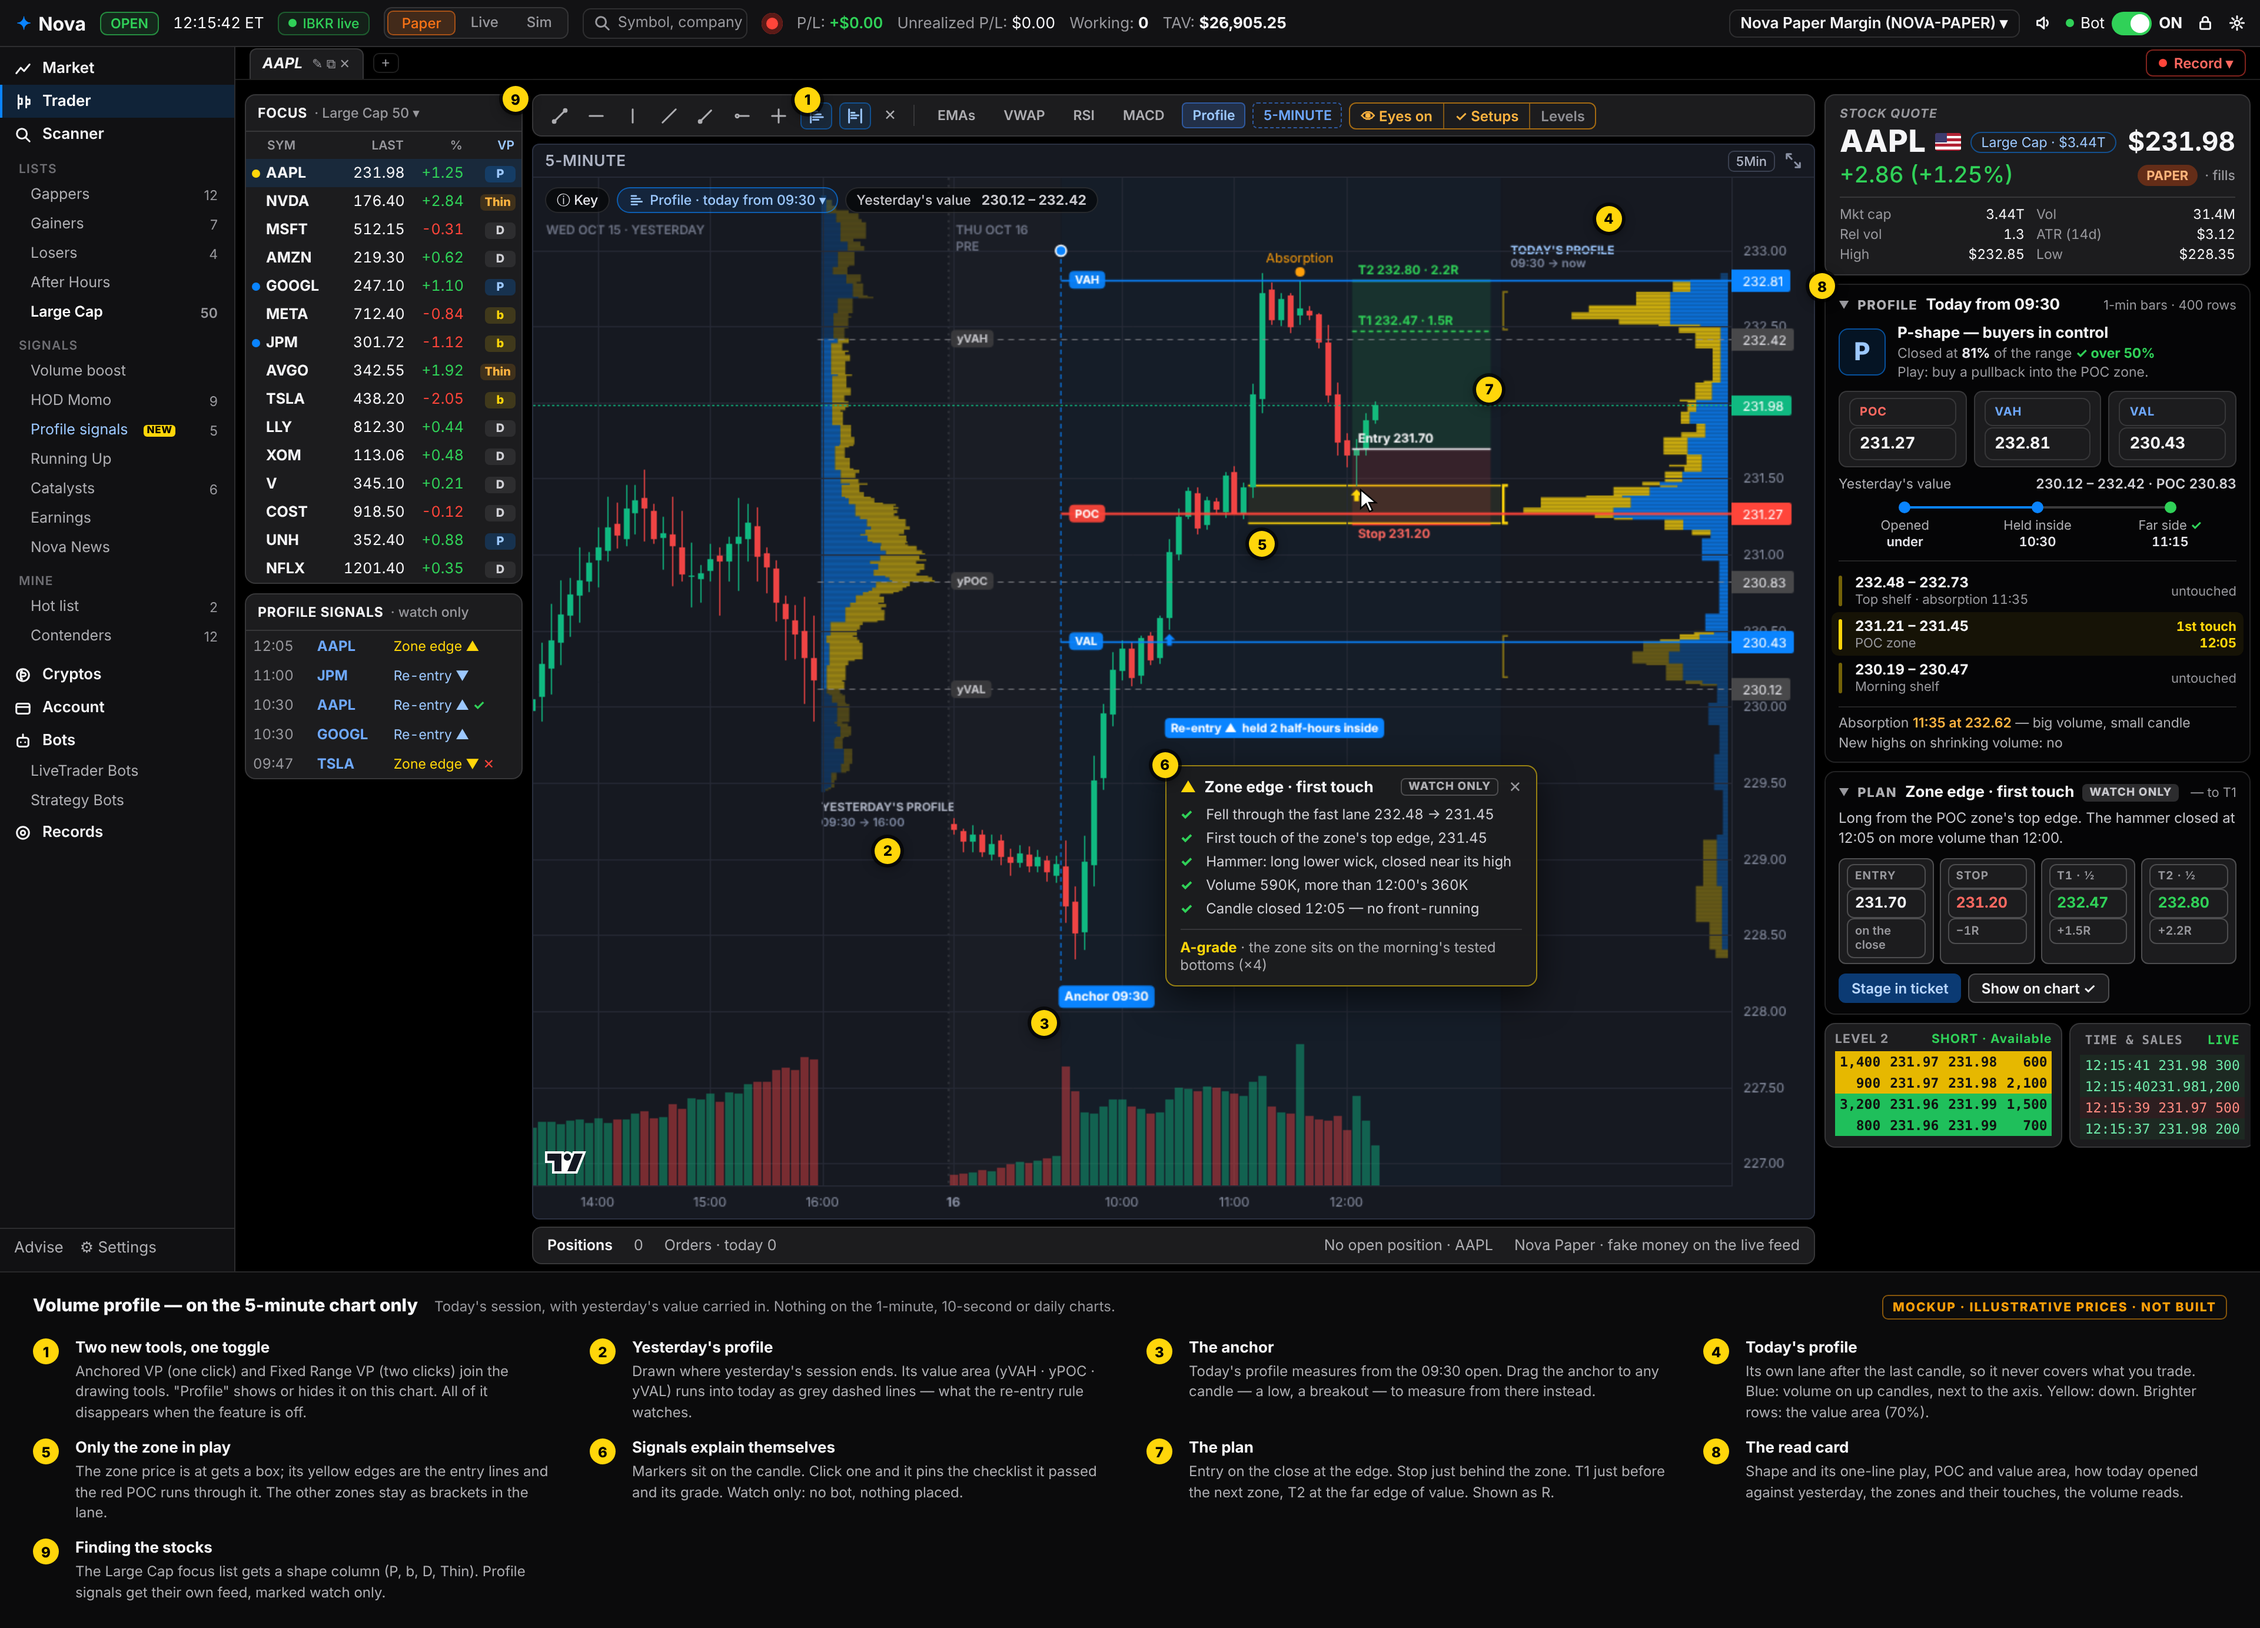
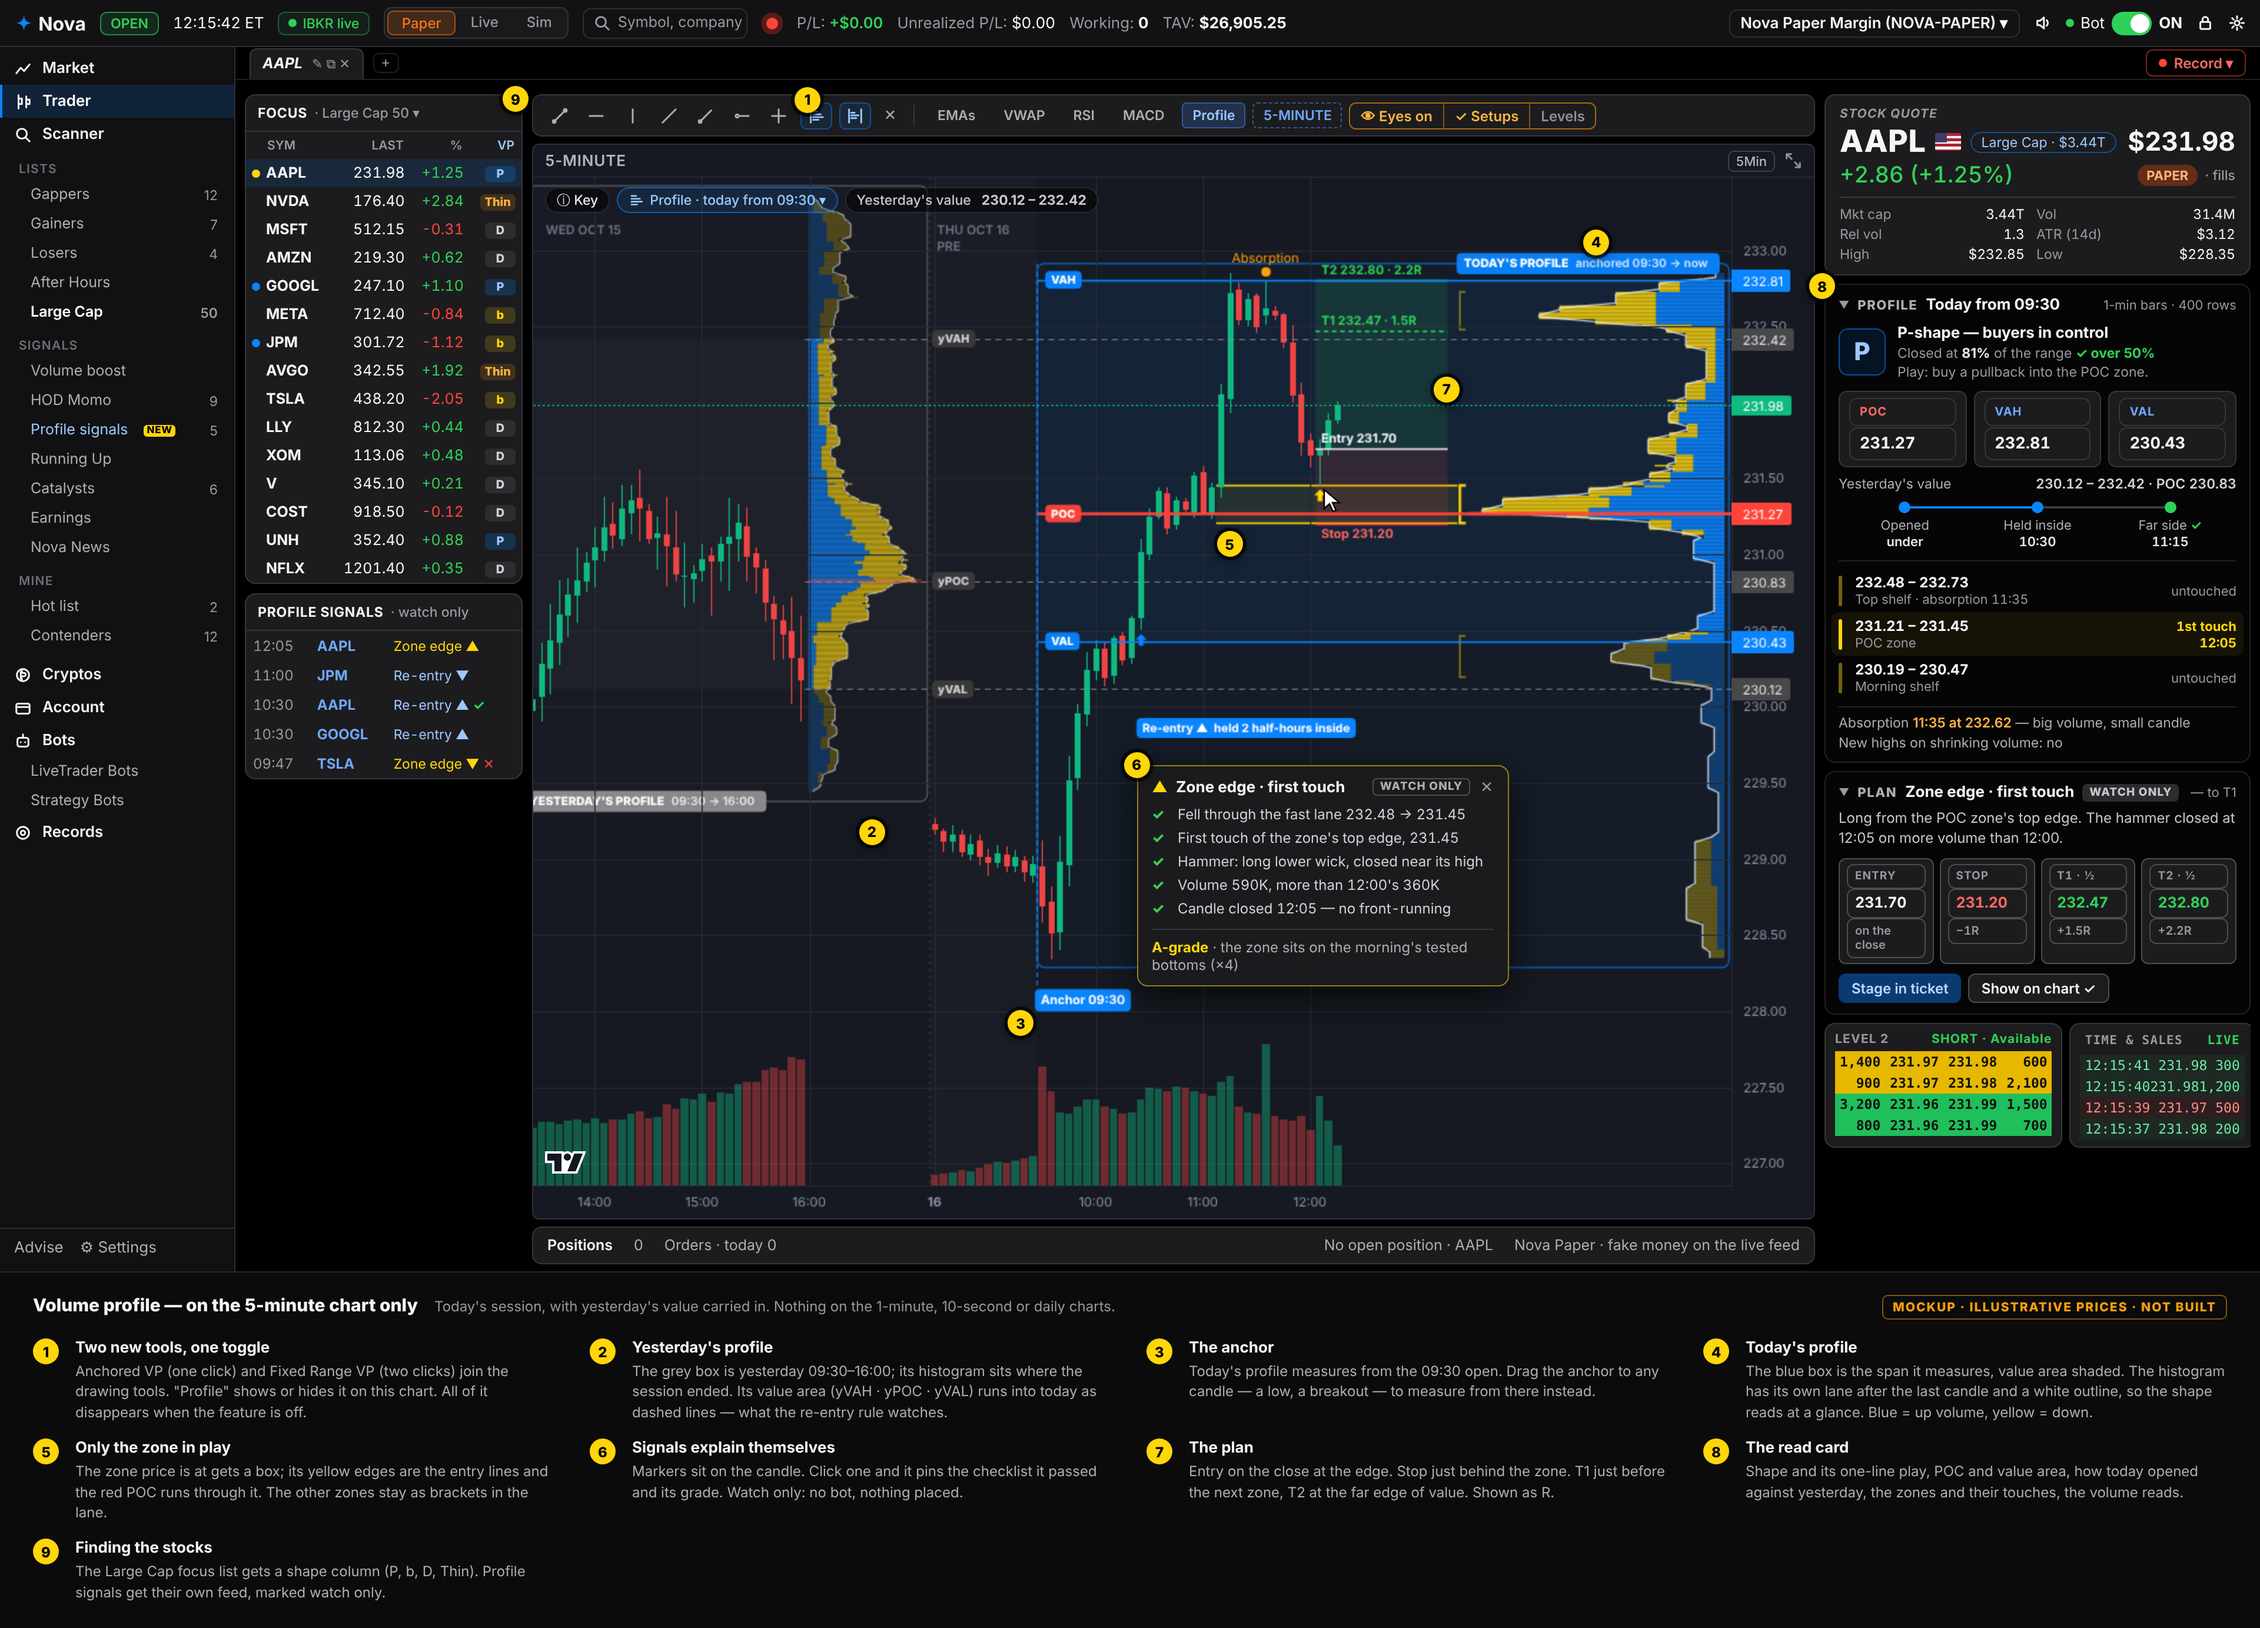
docs(plans): frame each volume profile so it can be seen -- boxes, outline, close-up
The operator still could not see the profile on a phone and pointed at how
other tools draw it ("borders things like that"). Each profile now gets a
bordered box over the span it measures (blue for today from the 09:30
anchor, grey for yesterday) with a title tab, a shaded value-area band,
bright value-area rows, a smoothed white outline that shows the shape, and
a red POC band -- the common conventions of volume profile tools, from
search extracts (sources in the plan). A phone-sized close-up of the
5-minute chart leads the plan; the desk mockup shares the same drawing.

Refs #1014

Claude-Session: https://claude.ai/code/session_01RyoedBRcCSaBfLjx27RExp

diff --git a/docs/plans/2026-10-16-volume-profile-large-caps.md b/docs/plans/2026-10-16-volume-profile-large-caps.md
@@ -10,14 +10,17 @@
 >   [anchored] volume profile ... On which chart? Which timeline?"
 > - **A research pass,** §9a. Operator: "We may need to do more research."
 
-![The 5-minute chart with volume profile: today's profile anchored at 09:30 in its own lane, yesterday's
-profile where its session ended, the zone in play, a pinned signal, the plan, and the read card
-(illustrative prices)](2026-10-16-volume-profile-large-caps.png)
+![Close-up of the 5-minute chart: today's profile in a blue box from the 09:30 anchor to now, its histogram
+outlined in its own lane, the value area shaded, the POC in red, and yesterday's profile in a grey box where its
+session ended (illustrative prices)](2026-10-16-volume-profile-large-caps-closeup.png)
+
+![The same chart on the whole desk: the zone in play, a pinned signal, the plan, the read card, and the Large Cap
+focus list (illustrative prices)](2026-10-16-volume-profile-large-caps.png)
 
 ![Settings › Features with the one switch and its three states, the Large Cap columns, and the chart's
 Profile menu (where today's profile measures from) (illustrative prices)](2026-10-16-volume-profile-large-caps-switch.png)
 
-*Both mockups:*
+*The mockups:*
 - They are drawn on Nova's own desk chrome and with Nova's chart library (lightweight-charts 5.1, the chart
   options in `chart/useChartInstance.ts`).
 - Prices are made up.
@@ -277,6 +280,29 @@ and an `index.ts` barrel. Mockup 1 shows every piece; the numbers below match it
    - Value-area rows brighter.
    - Labelled "TODAY'S PROFILE 09:30 → now".
    - Its POC (bold red) and VAH / VAL (blue) run from the anchor to the axis with coloured axis chips.
+
+**How each profile is framed,** so it can be seen at a glance (operator, 2026-10-16: "I can't even see it ... look
+at examples on the web, like borders"):
+- **A bordered box** over the span the profile measures: blue for today, from the anchor to the axis; grey for
+  yesterday.
+- **A title tab on the frame:** over the histogram for today, at the bottom for yesterday.
+- **A shaded value-area band** from VAH to VAL inside the box, edged by those lines.
+- **Bright value-area rows** and dim rows outside it.
+- **A white outline** traced along the histogram's edge, smoothed over 3 rows, so a P, b, D or thin shape reads
+  at phone size.
+- **A narrow red band** on the POC row.
+
+These follow the common conventions of other profile tools, though the session could not open their pages:
+- a value-area box from VAH to VAL across the range;
+- separate colours inside and outside the value area;
+- a bold POC with a narrow band, extended right;
+- NinjaTrader's grey outline around the profile.
+
+Search extracts of community and LuxAlgo scripts:
+[LuxAlgo fixed range](https://www.luxalgo.com/library/indicator/kIY0znXs-volume-profile-fixed-range),
+[ApexFlow FRVP](https://www.tradingview.com/script/MKcYFqdB-Fixed-Range-Volume-Profile-ApexFlow/),
+[ActiveQuants](https://www.tradingview.com/script/10UqNQSQ-Volume-Profile-ActiveQuants),
+[a NexusFi thread on outlines](https://nexusfi.com/showthread.php?p=672337).
 5. **Only the zone in play** gets a box.
    - It runs from the candle where price left the zone to the lane, with yellow edges (the entry lines) and
      the red POC through it, as in the operator's frame.
